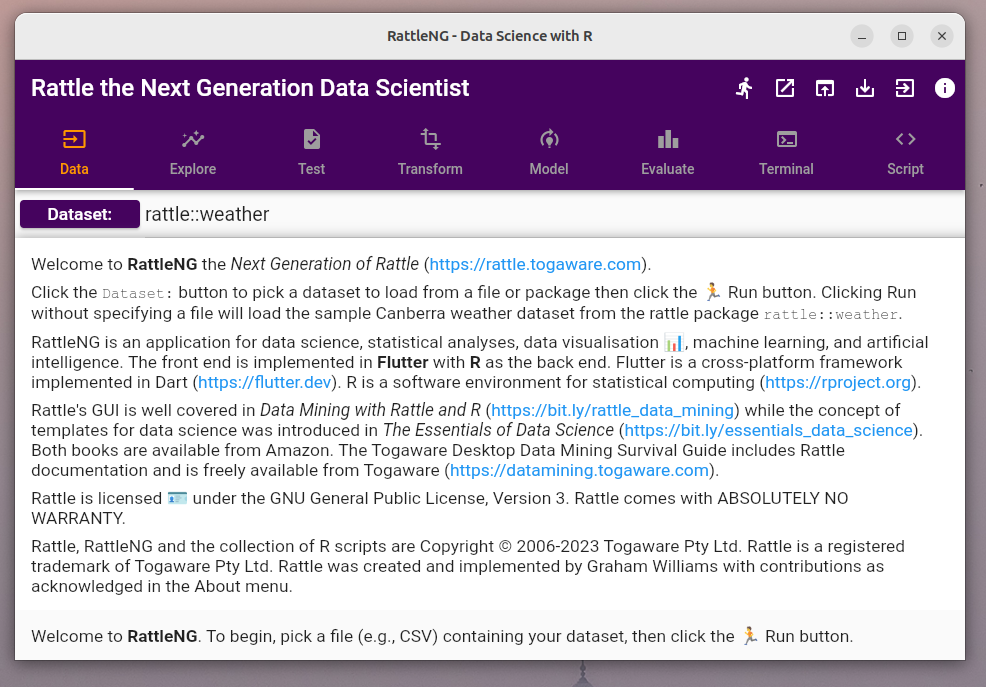
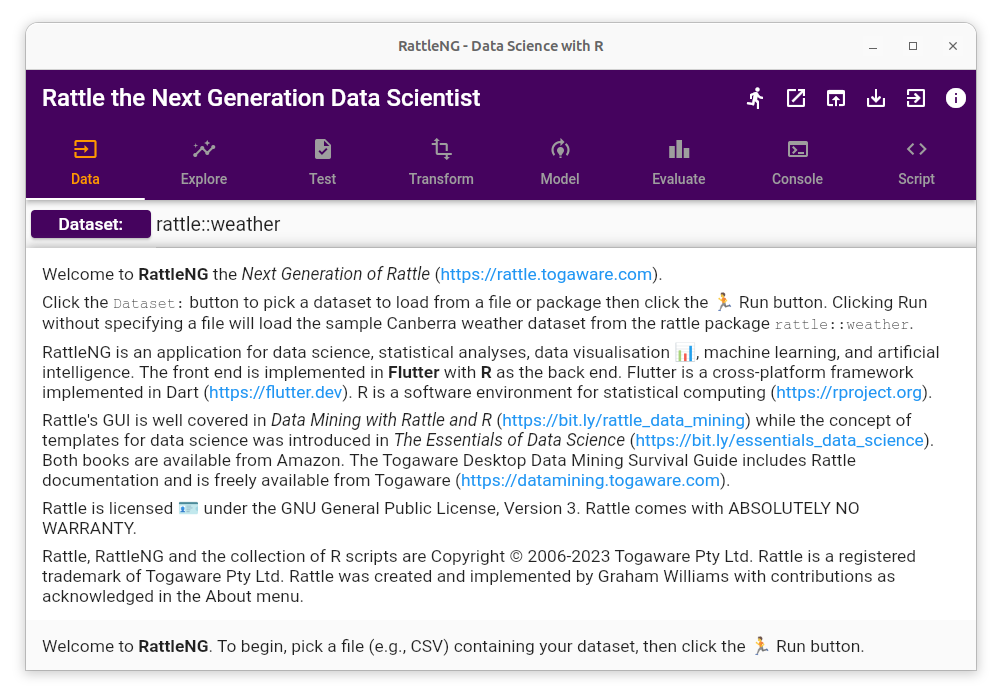
Update screenshots. Add CONSOLE example.

diff --git a/README.md b/README.md
@@ -49,13 +49,23 @@ Suggested tasks can be found as github issues.
 
 ## Some RattleNG teasers
 
-### The traditional Rattle Welcome
+### Traditional Rattle Welcome
 
 ![](assets/screenshots/data_page.png)
 
 ### Exploring Data Visually
 
 ![](assets/screenshots/explore_plot.png)
+
+### The R Console
+
+The R console is where everything in R happens. The user can review
+the contents of the console and even run R commands themselves. Click
+the EXPORT button to have the history of R commands from the console
+saved to file. Compare this EXPORT to that of the LOG page where a
+documented and formatted script is saved to file.
+
+![](assets/screenshots/console_page.png)
 
 ### Everything Captured as Scripts
 
